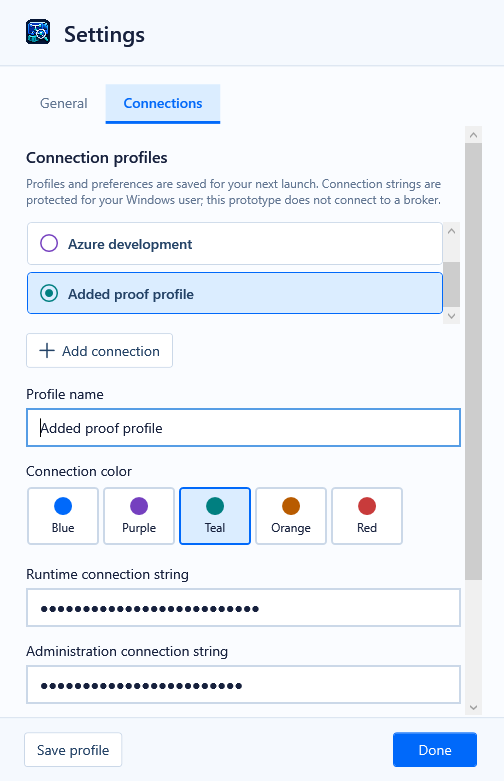
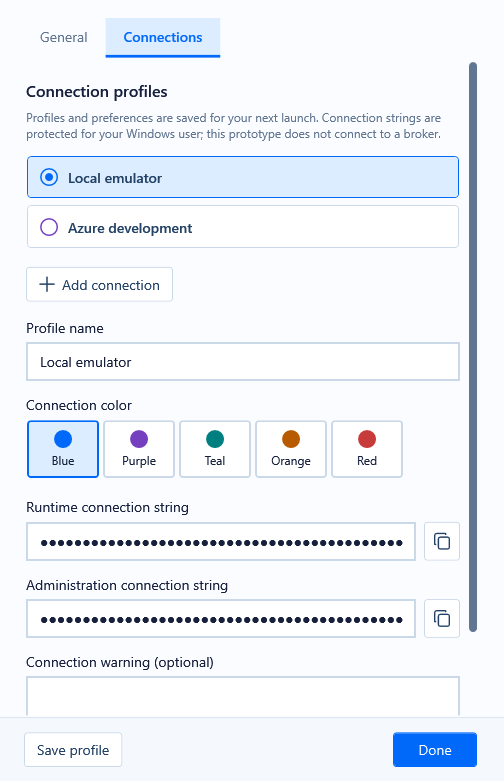
Polish prototype chrome and add connection string copy actions

Changed region(s): [[0.0298, 0.0, 0.9821, 0.8912], [0.8929, 0.8604, 0.9226, 0.9219], [0.8631, 0.6761, 0.8929, 0.7068]]

diff --git a/tools/ServiceBusEmulatorExplorer.InvestigationPrototype/PrototypeSettingsWindow.xaml b/tools/ServiceBusEmulatorExplorer.InvestigationPrototype/PrototypeSettingsWindow.xaml
@@ -25,9 +25,8 @@
         </ControlTemplate.Triggers>
        </ControlTemplate></Setter.Value></Setter>
       </Style></ResourceDictionary></Window.Resources>
- <Grid Background="{DynamicResource CanvasBrush}"><Grid.RowDefinitions><RowDefinition Height="Auto"/><RowDefinition Height="*"/><RowDefinition Height="Auto"/></Grid.RowDefinitions>
-  <Border Background="{DynamicResource ChromeBrush}" BorderBrush="{DynamicResource ControlBorderBrush}" BorderThickness="0,0,0,1" Padding="24,18"><StackPanel Orientation="Horizontal"><Image Source="Assets/AppIcon.png" Width="28" Height="28" Margin="0,0,12,0"/><TextBlock Text="Settings" FontSize="22" FontWeight="SemiBold" VerticalAlignment="Center"/></StackPanel></Border>
-  <TabControl x:Name="SettingsTabs" Grid.Row="1" Margin="20,16,20,0" Background="Transparent" BorderThickness="0">
+ <Grid Background="{DynamicResource CanvasBrush}"><Grid.RowDefinitions><RowDefinition Height="*"/><RowDefinition Height="Auto"/></Grid.RowDefinitions>
+  <TabControl x:Name="SettingsTabs" Grid.Row="0" Margin="20,16,20,0" Background="Transparent" BorderThickness="0">
    <TabControl.Resources><Style TargetType="TabItem"><Setter Property="Padding" Value="18,9"/><Setter Property="Background" Value="Transparent"/><Setter Property="Foreground" Value="{DynamicResource SecondaryBrush}"/><Setter Property="Template"><Setter.Value><ControlTemplate TargetType="TabItem"><Border x:Name="TabBorder" Background="{TemplateBinding Background}" BorderBrush="Transparent" BorderThickness="0,0,0,3" Padding="{TemplateBinding Padding}"><ContentPresenter ContentSource="Header" HorizontalAlignment="Center" VerticalAlignment="Center"/></Border><ControlTemplate.Triggers><Trigger Property="IsMouseOver" Value="True"><Setter TargetName="TabBorder" Property="Background" Value="{DynamicResource NeutralHoverBrush}"/></Trigger><Trigger Property="IsEnabled" Value="False"><Setter Property="Foreground" Value="{DynamicResource SecondaryBrush}"/></Trigger><Trigger Property="IsSelected" Value="True"><Setter Property="Foreground" Value="{DynamicResource PrimaryBrush}"/><Setter Property="FontWeight" Value="SemiBold"/><Setter TargetName="TabBorder" Property="Background" Value="{DynamicResource SelectionBrush}"/><Setter TargetName="TabBorder" Property="BorderBrush" Value="{DynamicResource PrimaryBrush}"/></Trigger><Trigger Property="IsKeyboardFocused" Value="True"><Setter TargetName="TabBorder" Property="BorderBrush" Value="{DynamicResource InkBrush}"/></Trigger></ControlTemplate.Triggers></ControlTemplate></Setter.Value></Setter></Style></TabControl.Resources>
    <TabItem x:Name="GeneralTab" Header="General" AutomationProperties.AutomationId="GeneralTab">
     <ScrollViewer Foreground="{DynamicResource InkBrush}" FontWeight="Normal" VerticalScrollBarVisibility="Auto" HorizontalScrollBarVisibility="Disabled"><StackPanel Margin="4,22,4,12">
@@ -67,9 +66,15 @@
       </Style></ListBox.ItemContainerStyle>
      </ListBox>
      <Label Content="Runtime connection string" Target="{Binding ElementName=RuntimeConnection}" Padding="0" Margin="0,14,0,6"/>
-     <PasswordBox x:Name="RuntimeConnection" AutomationProperties.AutomationId="RuntimeConnection" AutomationProperties.Name="Runtime connection string"/>
+     <Grid><Grid.ColumnDefinitions><ColumnDefinition Width="*"/><ColumnDefinition Width="Auto"/></Grid.ColumnDefinitions>
+      <PasswordBox x:Name="RuntimeConnection" PasswordChanged="ConnectionString_Changed" AutomationProperties.AutomationId="RuntimeConnection" AutomationProperties.Name="Runtime connection string"/>
+      <Button x:Name="CopyRuntimeConnectionButton" Grid.Column="1" Width="36" Margin="8,0,0,0" Padding="8" IsEnabled="False" Click="CopyRuntimeConnection_Click" ToolTip="Copy runtime connection string" AutomationProperties.AutomationId="CopyRuntimeConnectionButton" AutomationProperties.Name="Copy runtime connection string"><Path Style="{StaticResource CopyIcon}"/></Button>
+     </Grid>
      <Label Content="Administration connection string" Target="{Binding ElementName=AdministrationConnection}" Padding="0" Margin="0,14,0,6"/>
-     <PasswordBox x:Name="AdministrationConnection" AutomationProperties.AutomationId="AdministrationConnection" AutomationProperties.Name="Administration connection string"/>
+     <Grid><Grid.ColumnDefinitions><ColumnDefinition Width="*"/><ColumnDefinition Width="Auto"/></Grid.ColumnDefinitions>
+      <PasswordBox x:Name="AdministrationConnection" PasswordChanged="ConnectionString_Changed" AutomationProperties.AutomationId="AdministrationConnection" AutomationProperties.Name="Administration connection string"/>
+      <Button x:Name="CopyAdministrationConnectionButton" Grid.Column="1" Width="36" Margin="8,0,0,0" Padding="8" IsEnabled="False" Click="CopyAdministrationConnection_Click" ToolTip="Copy administration connection string" AutomationProperties.AutomationId="CopyAdministrationConnectionButton" AutomationProperties.Name="Copy administration connection string"><Path Style="{StaticResource CopyIcon}"/></Button>
+     </Grid>
      <Label Content="Connection warning (optional)" Target="{Binding ElementName=ConnectionWarning}" Padding="0" Margin="0,14,0,6"/>
      <TextBox x:Name="ConnectionWarning" MinHeight="72" MaxHeight="144" AcceptsReturn="True" TextWrapping="Wrap" VerticalScrollBarVisibility="Auto" AutomationProperties.AutomationId="ConnectionWarning" AutomationProperties.Name="Connection warning"/>
      <TextBlock Text="Shown before connecting. Leave empty to connect without a warning." TextWrapping="Wrap" Foreground="{DynamicResource SecondaryBrush}" FontSize="12" Margin="0,6,0,0"/>
@@ -77,7 +82,7 @@
     </StackPanel></ScrollViewer>
    </TabItem>
   </TabControl>
-  <Border Grid.Row="2" BorderBrush="{DynamicResource ControlBorderBrush}" BorderThickness="0,1,0,0" Padding="24,14" Background="{DynamicResource ChromeBrush}"><Grid>
+  <Border Grid.Row="1" BorderBrush="{DynamicResource ControlBorderBrush}" BorderThickness="0,1,0,0" Padding="24,14" Background="{DynamicResource ChromeBrush}"><Grid>
    <Button x:Name="SaveProfileButton" Content="Save profile" HorizontalAlignment="Left" Margin="0" Click="SaveProfile_Click" AutomationProperties.AutomationId="SaveProfileButton"><Button.Style><Style TargetType="Button" BasedOn="{StaticResource {x:Type Button}}"><Setter Property="Visibility" Value="Collapsed"/><Style.Triggers><DataTrigger Binding="{Binding IsSelected, ElementName=ConnectionsTab}" Value="True"><Setter Property="Visibility" Value="Visible"/></DataTrigger></Style.Triggers></Style></Button.Style></Button>
    <Button x:Name="DoneButton" Content="Done" Style="{StaticResource PrimaryButton}" MinWidth="84" HorizontalAlignment="Right" Click="Done_Click" AutomationProperties.AutomationId="DoneButton" IsCancel="True"/>
   </Grid></Border>

diff --git a/tools/ServiceBusEmulatorExplorer.InvestigationPrototype/PrototypeWindow.xaml b/tools/ServiceBusEmulatorExplorer.InvestigationPrototype/PrototypeWindow.xaml
@@ -23,7 +23,7 @@
    <Setter Property="FontFamily" Value="Segoe UI"/><Setter Property="FontSize" Value="14"/><Setter Property="MinWidth" Value="260"/><Setter Property="MaxWidth" Value="360"/>
    <Setter Property="Template"><Setter.Value><ControlTemplate TargetType="ContextMenu"><Border Background="{DynamicResource RaisedBrush}" BorderBrush="{DynamicResource ControlBorderBrush}" BorderThickness="1" CornerRadius="3" Padding="6"><ScrollViewer MaxHeight="400" VerticalScrollBarVisibility="Auto" HorizontalScrollBarVisibility="Disabled" CanContentScroll="True"><ItemsPresenter KeyboardNavigation.DirectionalNavigation="Cycle"/></ScrollViewer></Border></ControlTemplate></Setter.Value></Setter>
   </Style>
-  <BooleanToVisibilityConverter x:Key="BoolVisibility"/><Style x:Key="CopyIcon" TargetType="Path"><Setter Property="Data" Value="M7,6 H15 Q17,6 17,8 V17 Q17,19 15,19 H7 Q5,19 5,17 V8 Q5,6 7,6 Z M13,3 V2 H3 Q1,2 1,4 V14 H2"/><Setter Property="Stroke" Value="{Binding Foreground, RelativeSource={RelativeSource AncestorType=Button}}"/><Setter Property="StrokeThickness" Value="1.4"/><Setter Property="StrokeLineJoin" Value="Round"/><Setter Property="StrokeStartLineCap" Value="Round"/><Setter Property="StrokeEndLineCap" Value="Round"/><Setter Property="Width" Value="16"/><Setter Property="Height" Value="18"/><Setter Property="Stretch" Value="Uniform"/><Setter Property="VerticalAlignment" Value="Center"/></Style>
+  <BooleanToVisibilityConverter x:Key="BoolVisibility"/>
 
 
   <Style TargetType="TextBox"><Setter Property="Padding" Value="9,7"/><Setter Property="BorderBrush" Value="{DynamicResource ControlBorderBrush}"/><Setter Property="VerticalContentAlignment" Value="Center"/></Style>
@@ -54,7 +54,7 @@
  </ResourceDictionary></Window.Resources>
  <Grid Background="{DynamicResource CanvasBrush}">
   <Grid.RowDefinitions><RowDefinition Height="40"/><RowDefinition Height="*"/><RowDefinition Height="Auto"/><RowDefinition Height="Auto"/></Grid.RowDefinitions>
-  <Border x:Name="ProfileAccentBorder" Background="{DynamicResource ChromeBrush}" BorderBrush="{DynamicResource PrimaryBrush}" BorderThickness="0,3,0,0">
+  <Border x:Name="ProfileAccentBorder" Background="{DynamicResource ChromeBrush}" BorderBrush="{DynamicResource PrimaryBrush}" BorderThickness="0,0,0,3">
    <DockPanel Margin="15,0" LastChildFill="False">
     <StackPanel DockPanel.Dock="Left" Orientation="Horizontal" VerticalAlignment="Center">
      <ComboBox x:Name="ConnectionSelector" Width="220" Margin="0,0,8,0" Style="{StaticResource RefreshIntervalStyle}" SelectionChanged="ConnectionSelector_Changed" AutomationProperties.Name="Connection profile" AutomationProperties.AutomationId="ConnectionSelector">
@@ -66,7 +66,7 @@
     <StackPanel DockPanel.Dock="Right" Orientation="Horizontal" VerticalAlignment="Center">
      <Button x:Name="GlobalWatchButton" Click="GlobalWatch_Click" Padding="8,4" ToolTip="Watch messages across this connection" AutomationProperties.Name="Watch all entities" AutomationProperties.AutomationId="GlobalWatchButton"><StackPanel Orientation="Horizontal"><Path Data="M8,1 C4,1 3,4 3,7 V11 L1,14 H15 L13,11 V7 C13,4 12,1 8,1 Z M5,16 H11" Width="16" Height="16" Stretch="Uniform" Stroke="{Binding Foreground, RelativeSource={RelativeSource AncestorType=Button}}" StrokeThickness="1.5" StrokeLineJoin="Round" Margin="0,0,7,0"/><TextBlock Text="Watch all" VerticalAlignment="Center"/></StackPanel></Button>
      <Button x:Name="WatchSummaryButton" Visibility="Collapsed" Click="WatchSummary_Click" Padding="8,3" Style="{StaticResource IconButton}" ToolTip="Watch notifications" AutomationProperties.Name="Watch notifications"><StackPanel Orientation="Horizontal"><Path Data="M10,2 C6,2 4,5 4,9 V14 L2,17 H18 L16,14 V9 C16,5 14,2 10,2 Z M7,19 A3,3 0 0 0 13,19 Z" Fill="{DynamicResource PrimaryBrush}" Width="18" Height="20" Stretch="Uniform"/><TextBlock x:Name="WatchCount" Text="0" Foreground="{DynamicResource PrimaryBrush}" FontWeight="SemiBold" FontSize="11" Margin="5,0,0,0" VerticalAlignment="Center"/></StackPanel></Button>
-     <Button x:Name="SettingsButton" Click="Settings_Click" Style="{StaticResource IconButton}" Padding="6,2" ToolTip="Settings" AutomationProperties.Name="Settings"><Path Data="M6,0 H10 L11,3 14,4 16,7 14,10 14,13 11,15 8,14 5,15 2,13 2,10 0,7 2,4 5,3 Z M11,7 A3,3 0 1 1 5,7 A3,3 0 1 1 11,7" Stroke="{Binding Foreground, RelativeSource={RelativeSource AncestorType=Button}}" StrokeThickness="1.5" StrokeLineJoin="Round" Width="16" Height="16" Stretch="Uniform"/></Button>
+     <Button x:Name="SettingsButton" Click="Settings_Click" Style="{StaticResource IconButton}" Padding="6,2" ToolTip="Settings" AutomationProperties.Name="Settings"><Path Data="M6,0 H10 L10.5,2.5 12,3.4 14.4,2.6 16.4,6 14.5,7.7 V9.3 L16.4,11 14.4,14.4 12,13.6 10.5,14.5 10,17 H6 L5.5,14.5 4,13.6 1.6,14.4 -0.4,11 1.5,9.3 V7.7 L-0.4,6 1.6,2.6 4,3.4 5.5,2.5 Z M11,8.5 A3,3 0 1 1 5,8.5 A3,3 0 1 1 11,8.5" Stroke="{Binding Foreground, RelativeSource={RelativeSource AncestorType=Button}}" StrokeThickness="1.5" StrokeLineJoin="Round" Width="16" Height="16" Stretch="Uniform"/></Button>
     </StackPanel>
    </DockPanel>
   </Border>

diff --git a/tools/ServiceBusEmulatorExplorer.InvestigationPrototype/SharedStyles.xaml b/tools/ServiceBusEmulatorExplorer.InvestigationPrototype/SharedStyles.xaml
@@ -87,4 +87,34 @@
     <DataTrigger Binding="{Binding Kind}" Value="Subscription"><Setter Property="Stroke" Value="#7351B5"/><Setter Property="Data" Value="M10,0 V12 M6,8 L10,12 14,8 M3,10 L0,19 H20 L17,10 M0,15 H6 L8,18 H12 L14,15 H20"/></DataTrigger>
    </Style.Triggers>
   </Style>
+ <Style x:Key="CopyIcon" TargetType="Path"><Setter Property="Data" Value="M7,6 H15 Q17,6 17,8 V17 Q17,19 15,19 H7 Q5,19 5,17 V8 Q5,6 7,6 Z M13,3 V2 H3 Q1,2 1,4 V14 H2"/><Setter Property="Stroke" Value="{Binding Foreground, RelativeSource={RelativeSource AncestorType=Button}}"/><Setter Property="StrokeThickness" Value="1.4"/><Setter Property="StrokeLineJoin" Value="Round"/><Setter Property="StrokeStartLineCap" Value="Round"/><Setter Property="StrokeEndLineCap" Value="Round"/><Setter Property="Width" Value="16"/><Setter Property="Height" Value="18"/><Setter Property="Stretch" Value="Uniform"/><Setter Property="VerticalAlignment" Value="Center"/></Style>
+ <Style x:Key="ScrollPageButton" TargetType="RepeatButton">
+  <Setter Property="Focusable" Value="False"/><Setter Property="IsTabStop" Value="False"/>
+  <Setter Property="Template"><Setter.Value><ControlTemplate TargetType="RepeatButton"><Border Background="Transparent"/></ControlTemplate></Setter.Value></Setter>
+ </Style>
+ <Style x:Key="ScrollThumb" TargetType="Thumb">
+  <Setter Property="MinHeight" Value="28"/><Setter Property="Focusable" Value="False"/>
+  <Setter Property="Template"><Setter.Value><ControlTemplate TargetType="Thumb"><Grid Background="Transparent">
+   <Border x:Name="ThumbSurface" Background="{DynamicResource SecondaryBrush}" CornerRadius="4" Margin="5,2"/>
+   </Grid><ControlTemplate.Triggers>
+    <Trigger Property="IsMouseOver" Value="True"><Setter TargetName="ThumbSurface" Property="Background" Value="{DynamicResource PrimaryBrush}"/></Trigger>
+    <Trigger Property="IsDragging" Value="True"><Setter TargetName="ThumbSurface" Property="Background" Value="{DynamicResource PrimaryBrush}"/><Setter TargetName="ThumbSurface" Property="Margin" Value="3,2"/></Trigger>
+    <DataTrigger Binding="{Binding Orientation, RelativeSource={RelativeSource AncestorType=ScrollBar}}" Value="Horizontal"><Setter TargetName="ThumbSurface" Property="Margin" Value="2,5"/></DataTrigger>
+    <MultiDataTrigger><MultiDataTrigger.Conditions><Condition Binding="{Binding Orientation, RelativeSource={RelativeSource AncestorType=ScrollBar}}" Value="Horizontal"/><Condition Binding="{Binding IsDragging, RelativeSource={RelativeSource Self}}" Value="True"/></MultiDataTrigger.Conditions><Setter TargetName="ThumbSurface" Property="Margin" Value="2,3"/></MultiDataTrigger>
+    <Trigger Property="IsEnabled" Value="False"><Setter TargetName="ThumbSurface" Property="Background" Value="{DynamicResource DisabledTextBrush}"/></Trigger>
+   </ControlTemplate.Triggers></ControlTemplate></Setter.Value></Setter>
+  <Style.Triggers><DataTrigger Binding="{Binding Orientation, RelativeSource={RelativeSource AncestorType=ScrollBar}}" Value="Horizontal"><Setter Property="MinWidth" Value="28"/><Setter Property="MinHeight" Value="0"/></DataTrigger></Style.Triggers>
+ </Style>
+ <Style TargetType="ScrollBar">
+  <Setter Property="Width" Value="18"/><Setter Property="Background" Value="Transparent"/>
+  <Setter Property="Focusable" Value="False"/><Setter Property="IsTabStop" Value="False"/>
+  <Setter Property="Template"><Setter.Value><ControlTemplate TargetType="ScrollBar"><Grid Background="{TemplateBinding Background}" SnapsToDevicePixels="True">
+   <Track x:Name="PART_Track" Orientation="{TemplateBinding Orientation}" Minimum="{TemplateBinding Minimum}" Maximum="{TemplateBinding Maximum}" ViewportSize="{TemplateBinding ViewportSize}" Value="{Binding Value, RelativeSource={RelativeSource TemplatedParent}, Mode=TwoWay}" IsDirectionReversed="True">
+    <Track.DecreaseRepeatButton><RepeatButton x:Name="DecreasePage" Style="{StaticResource ScrollPageButton}" Command="{x:Static ScrollBar.PageUpCommand}"/></Track.DecreaseRepeatButton>
+    <Track.Thumb><Thumb Style="{StaticResource ScrollThumb}"/></Track.Thumb>
+    <Track.IncreaseRepeatButton><RepeatButton x:Name="IncreasePage" Style="{StaticResource ScrollPageButton}" Command="{x:Static ScrollBar.PageDownCommand}"/></Track.IncreaseRepeatButton>
+   </Track>
+   </Grid><ControlTemplate.Triggers><Trigger Property="Orientation" Value="Horizontal"><Setter TargetName="PART_Track" Property="IsDirectionReversed" Value="False"/><Setter TargetName="DecreasePage" Property="Command" Value="{x:Static ScrollBar.PageLeftCommand}"/><Setter TargetName="IncreasePage" Property="Command" Value="{x:Static ScrollBar.PageRightCommand}"/></Trigger></ControlTemplate.Triggers></ControlTemplate></Setter.Value></Setter>
+  <Style.Triggers><Trigger Property="Orientation" Value="Horizontal"><Setter Property="Width" Value="Auto"/><Setter Property="Height" Value="18"/></Trigger></Style.Triggers>
+ </Style>
 </ResourceDictionary>

diff --git a/tools/ServiceBusEmulatorExplorer.InvestigationPrototype/ChromePolishProof.cs b/tools/ServiceBusEmulatorExplorer.InvestigationPrototype/ChromePolishProof.cs
@@ -1,0 +1,172 @@
+using System.Windows;
+using System.Windows.Automation;
+using System.Windows.Automation.Peers;
+using System.Windows.Automation.Provider;
+using System.Windows.Controls;
+using System.Windows.Controls.Primitives;
+using System.Windows.Documents;
+using System.Windows.Threading;
+
+namespace ServiceBusEmulatorExplorer.InvestigationPrototype;
+
+internal static class ChromePolishProof
+{
+    public static async Task Exercise(PrototypeWindow window, List<string> report, string output)
+    {
+        var accent = (Border)window.FindName("ProfileAccentBorder");
+        Check(accent.BorderThickness.Left == 0 && accent.BorderThickness.Top == 0 && accent.BorderThickness.Right == 0 && accent.BorderThickness.Bottom > 0,
+            "Profile accent is confined to the header bottom edge", report);
+        ProofCapture.Save(window, output, "header-bottom-accent");
+        ProofCapture.Descendants(window).OfType<Button>().Single(button => AutomationProperties.GetName(button) == "Settings")
+            .RaiseEvent(new RoutedEventArgs(ButtonBase.ClickEvent));
+        await Settle();
+        var settings = Application.Current.Windows.OfType<PrototypeSettingsWindow>().Single();
+        try
+        {
+            Check(!ProofCapture.Descendants(settings).OfType<TextBlock>().Any(text => text.Text == "Settings"),
+                "Settings content does not repeat the native window title", report);
+            ((TabItem)settings.FindName("ConnectionsTab")).IsSelected = true;
+            await Settle();
+            var runtime = (PasswordBox)settings.FindName("RuntimeConnection");
+            var admin = (PasswordBox)settings.FindName("AdministrationConnection");
+            var runtimeCopy = (Button)settings.FindName("CopyRuntimeConnectionButton");
+            var adminCopy = (Button)settings.FindName("CopyAdministrationConnectionButton");
+            var originalRuntime = runtime.Password; var originalAdmin = admin.Password;
+            var clipboard = Clipboard.GetDataObject();
+            try
+            {
+                runtime.Password = ""; admin.Password = "";
+                await Settle();
+                Check(!runtimeCopy.IsEnabled && !adminCopy.IsEnabled, "Blank connection fields disable their copy actions", report);
+                runtime.Password = "unsaved-runtime-proof"; admin.Password = "unsaved-admin-proof";
+                await Settle();
+                await Copy(runtimeCopy, "unsaved-runtime-proof");
+                await Copy(adminCopy, "unsaved-admin-proof");
+                Check(true, "Copy actions use the exact unsaved runtime and administration field values", report);
+            }
+            finally
+            {
+                runtime.Password = originalRuntime; admin.Password = originalAdmin;
+                await RestoreClipboard(clipboard);
+            }
+            ProofCapture.Save(settings, output, "settings-chrome");
+            settings.Width = 460; settings.Height = 520;
+            await Settle();
+            await ScrollVertical(settings, report, "Compact Settings");
+            ProofCapture.CheckBounds(settings, [ProofCapture.Control<Button>(settings, "DoneButton"), ProofCapture.Control<Button>(settings, "SaveProfileButton")]);
+            ProofCapture.Save(settings, output, "settings-chrome-compact");
+            adminCopy.BringIntoView();
+            await Settle();
+            ProofCapture.CheckBounds(settings, [runtimeCopy, adminCopy]);
+            ProofCapture.Save(settings, output, "settings-chrome-compact-copy-actions");
+        }
+        finally { settings.Close(); }
+        await ScrollVertical(window, report, "Main investigation workspace");
+        var roots = PrototypeData.CreateTree();
+        var group = roots.First();
+        for (var index = 0; index < 45; index++) group.Children.Add(new EntityNode { Name = "regional-processing-queue-" + index, Path = "regional-processing-queue-" + index, Kind = "Queue" });
+        var watch = new GlobalWatchWindow(roots, new WatchRules(), () => { }) { Owner = window, Width = 460, Height = 520 };
+        try
+        {
+            watch.Show();
+            await Settle();
+            await ScrollVertical(watch, report, "Watch tree with many entities");
+            ProofCapture.Save(watch, output, "watch-scroll-chrome");
+        }
+        finally { watch.Close(); }
+        await ScrollbarHarness(window, report, output);
+    }
+
+    private static async Task Copy(Button button, string expected)
+    {
+        for (var attempt = 0; attempt < 3; attempt++)
+        {
+            button.RaiseEvent(new RoutedEventArgs(ButtonBase.ClickEvent));
+            await Settle();
+            try { if (Clipboard.GetText() == expected) return; }
+            catch (System.Runtime.InteropServices.COMException) { }
+            await Task.Delay(60);
+        }
+        throw new InvalidOperationException("Copy did not place the exact unsaved connection field on the clipboard.");
+    }
+
+    private static async Task RestoreClipboard(IDataObject? original)
+    {
+        for (var attempt = 0; ; attempt++)
+        {
+            try { if (original is null) Clipboard.Clear(); else Clipboard.SetDataObject(original, true); return; }
+            catch (System.Runtime.InteropServices.COMException) when (attempt < 2) { await Task.Delay(60); }
+        }
+    }
+
+    private static async Task ScrollVertical(Window window, List<string> report, string label)
+    {
+        var scroller = ProofCapture.Descendants(window).OfType<ScrollViewer>().Where(scroll => scroll.IsVisible && scroll.ScrollableHeight > 0)
+            .OrderByDescending(scroll => scroll.ActualHeight).FirstOrDefault()
+            ?? throw new InvalidOperationException(label + " has no rendered scrollable content.");
+        var original = scroller.VerticalOffset;
+        scroller.ScrollToEnd();
+        await Settle();
+        Check(scroller.VerticalOffset > 0 && ProofCapture.Descendants(scroller).OfType<ScrollBar>().Any(bar => bar.IsVisible && bar.Orientation == Orientation.Vertical && bar.Template is not null),
+            label + " scrolls long content with a rendered vertical scrollbar", report);
+        scroller.ScrollToVerticalOffset(original);
+        await Settle();
+    }
+
+    private static async Task ScrollbarHarness(Window owner, List<string> report, string output)
+    {
+        var scroller = new ScrollViewer { HorizontalScrollBarVisibility = ScrollBarVisibility.Auto, VerticalScrollBarVisibility = ScrollBarVisibility.Auto,
+            Content = new TextBlock { Text = string.Join("\n", Enumerable.Range(0, 60).Select(index => "2026-09-12T10:23:45Z INFO regional-processing queue event " + index + " " + new string('x', 140))) } };
+        var harness = new Window { Owner = owner, Width = 500, Height = 280, Content = scroller, Title = "Scrollbar style proof" };
+        harness.Resources.MergedDictionaries.Add(new ResourceDictionary { Source = new Uri("SharedStyles.xaml", UriKind.Relative) });
+        scroller.SetResourceReference(Control.BackgroundProperty, "CanvasBrush");
+        scroller.SetResourceReference(Control.ForegroundProperty, "InkBrush");
+        try
+        {
+            harness.Show();
+            await Settle();
+            scroller.ScrollToHorizontalOffset(100); scroller.ScrollToVerticalOffset(100);
+            await Settle();
+            Check(scroller.HorizontalOffset > 0 && scroller.VerticalOffset > 0 && ProofCapture.Descendants(scroller).OfType<ScrollBar>()
+                .Count(bar => bar.IsVisible) == 2, "Shared scrollbar style harness supports both horizontal and vertical scrolling", report);
+            await ExerciseScrollbar(scroller, Orientation.Horizontal, report);
+            await ExerciseScrollbar(scroller, Orientation.Vertical, report);
+            ProofCapture.Save(harness, output, "shared-scrollbars-both-orientations");
+        }
+        finally { harness.Close(); }
+    }
+
+    private static async Task ExerciseScrollbar(ScrollViewer scroller, Orientation orientation, List<string> report)
+    {
+        if (orientation == Orientation.Horizontal) scroller.ScrollToHorizontalOffset(0);
+        else scroller.ScrollToVerticalOffset(0);
+        await Settle();
+        var bar = ProofCapture.Descendants(scroller).OfType<ScrollBar>().Single(control => control.IsVisible && control.Orientation == orientation);
+        var track = (Track)bar.Template.FindName("PART_Track", bar);
+        var surface = track.Thumb.Template.FindName("ThumbSurface", track.Thumb) as Border;
+        Check(surface is { IsVisible: true } && surface.ActualWidth > 0 && surface.ActualHeight > 0,
+            orientation + " scrollbar renders the shared ThumbSurface", report);
+        var before = orientation == Orientation.Horizontal ? scroller.HorizontalOffset : scroller.VerticalOffset;
+        var peer = UIElementAutomationPeer.CreatePeerForElement(track.IncreaseRepeatButton);
+        if (peer?.GetPattern(PatternInterface.Invoke) is not IInvokeProvider invoke)
+            throw new InvalidOperationException(orientation + " scrollbar page button has no Invoke provider.");
+        invoke.Invoke();
+        await Settle();
+        var paged = orientation == Orientation.Horizontal ? scroller.HorizontalOffset : scroller.VerticalOffset;
+        Check(paged > before, orientation + " scrollbar page button advances its ScrollViewer", report);
+        var horizontal = orientation == Orientation.Horizontal ? 20d : 0d;
+        var vertical = orientation == Orientation.Vertical ? 20d : 0d;
+        track.Thumb.RaiseEvent(new DragStartedEventArgs(0, 0) { RoutedEvent = Thumb.DragStartedEvent });
+        track.Thumb.RaiseEvent(new DragDeltaEventArgs(horizontal, vertical) { RoutedEvent = Thumb.DragDeltaEvent });
+        track.Thumb.RaiseEvent(new DragCompletedEventArgs(horizontal, vertical, false) { RoutedEvent = Thumb.DragCompletedEvent });
+        await Settle();
+        var dragged = orientation == Orientation.Horizontal ? scroller.HorizontalOffset : scroller.VerticalOffset;
+        Check(dragged > paged, orientation + " scrollbar Thumb drag advances its ScrollViewer", report);
+    }
+    private static Task Settle() => Application.Current.Dispatcher.InvokeAsync(() => { }, DispatcherPriority.ApplicationIdle).Task;
+    private static void Check(bool condition, string message, List<string> report)
+    {
+        if (!condition) throw new InvalidOperationException(message);
+        report.Add("- PASS: " + message);
+    }
+}

diff --git a/tools/ServiceBusEmulatorExplorer.InvestigationPrototype/PrototypeSettingsWindow.xaml.cs b/tools/ServiceBusEmulatorExplorer.InvestigationPrototype/PrototypeSettingsWindow.xaml.cs
@@ -139,6 +139,35 @@ public partial class PrototypeSettingsWindow : Window
         ProfileStatus.Text = string.Empty;
     }
 
+    private void ConnectionString_Changed(object sender, RoutedEventArgs e)
+    {
+        if (CopyRuntimeConnectionButton is not null) CopyRuntimeConnectionButton.IsEnabled = HasConnectionString(RuntimeConnection);
+        if (CopyAdministrationConnectionButton is not null) CopyAdministrationConnectionButton.IsEnabled = HasConnectionString(AdministrationConnection);
+    }
+
+    private static bool HasConnectionString(PasswordBox field)
+    {
+        using var password = field.SecurePassword;
+        return password.Length > 0;
+    }
+
+    private void CopyRuntimeConnection_Click(object sender, RoutedEventArgs e) => CopyConnectionString(RuntimeConnection, "Runtime");
+    private void CopyAdministrationConnection_Click(object sender, RoutedEventArgs e) => CopyConnectionString(AdministrationConnection, "Administration");
+
+    private void CopyConnectionString(PasswordBox field, string label)
+    {
+        if (!HasConnectionString(field)) return;
+        try
+        {
+            Clipboard.SetText(field.Password);
+            ProfileStatus.Text = $"{label} connection string copied.";
+        }
+        catch (System.Runtime.InteropServices.ExternalException)
+        {
+            ProfileStatus.Text = "Clipboard is unavailable. Try copying again.";
+        }
+    }
+
     private void SaveProfile_Click(object sender, RoutedEventArgs e)
     {
         if (ProfilesList.SelectedItem is not PrototypeConnectionProfile profile) return;

diff --git a/tools/ServiceBusEmulatorExplorer.InvestigationPrototype/InvestigationProof.cs b/tools/ServiceBusEmulatorExplorer.InvestigationPrototype/InvestigationProof.cs
@@ -41,6 +41,7 @@ internal static class InvestigationProof
             await ProfileThemeProof.Exercise(window, report, output);
             await AddConnectionProof.Exercise(window, report, output);
             await AutoConnectProof.Exercise(window, report, output);
+            await ChromePolishProof.Exercise(window, report, output);
             File.WriteAllLines(Path.Combine(output, "report.md"), report);
             return 0;
         }

diff --git a/specs/investigation-workspace-handoff.md b/specs/investigation-workspace-handoff.md
@@ -7,7 +7,7 @@ Prepared 2026-09-11; prototype approved by the user on 2026-09-12. **Prototype c
 - Implementation baseline: `126c824` on `prototype/investigation-workspace` (approved prototype). Earlier milestones: `a908ffd` for persisted Watch/preferences and typed deletion; `8cc1232` for profile themes, warnings and new profiles. Use the normal checkout and inspect newer commits before starting; preserve unrelated changes.
 - Visual/interaction reference: [prototype](../tools/ServiceBusEmulatorExplorer.InvestigationPrototype/README.md) and its [current preview](../tools/ServiceBusEmulatorExplorer.InvestigationPrototype/preview.png). Apply [UI language and audit corrections](ui-language.md) consistently; preserve the approved layout.
 - Destination: existing WPF [App](../src/ServiceBusEmulatorExplorer.App/ServiceBusEmulatorExplorer.App.csproj) using existing [Core contracts](../src/ServiceBusEmulatorExplorer.Core/ServiceBus/ServiceBusContracts.cs). Keep the prototype as a reference until parity is proven. Do not just rename its executable or ship its synthetic Workspace.
-- Current evidence: 333 routed walkthrough checks and an 11-check real tray run pass, including profile/Watch preferences, typed deletion and shared styling. Full-profile themes, saved warnings, new profiles and simplified Watch search pass the current rendered walkthrough. No new broker integration tests were run for this audit. The proof uses synthetic messages and is not a production readiness certificate.
+- Current evidence: 347 routed walkthrough checks and an 11-check real tray run pass, including profile/Watch preferences, typed deletion and shared styling. Full-profile themes, saved warnings, new profiles and simplified Watch search pass the current rendered walkthrough. No new broker integration tests were run for this audit. The proof uses synthetic messages and is not a production readiness certificate.
 
 ## Approved prototype milestone
 
@@ -29,6 +29,7 @@ Do not reopen visual design, add redundant controls, or run another prototype-de
 | --- | --- | --- |
 | Small daily-investigation UI; remove redundant headings | Approved layout implemented | Replace old shell surface; do not bring back all old administration buttons |
 | Emulator and Azure connection selection | Toolbar dropdown with opt-in auto-connect; Settings manages profiles; Add connection opens a blank uniquely named profile without switching; Save persists | Reuse real profile/auth validation; persist selected profile and color separately from connection health |
+| Share connection strings | Copy beside each masked runtime/administration field copies its current value; empty fields disable Copy; status never includes credentials | Preserve explicit clipboard sharing and masking; never log credentials |
 | Profile identity and connection health | Active profile theme covers buttons, selected states and surface tints across windows; separate fixed health, DLQ and red Delete colors | Bind health to structured connection/operation outcomes; color alone must not communicate status |
 | Queues, topics, subscriptions and Message/DLQ totals | Sample tree, distinct icons; unknown sample counts | Bind real tree and typed known/unknown/stale count state; topic totals are delivery totals across subscriptions |
 | First 50 on scope/bucket change; Load more | Implemented against fixtures | Per-source cursors, cancellation, stale-request rejection; settle topic aggregate paging |
@@ -53,7 +54,7 @@ Do not reopen visual design, add redundant controls, or run another prototype-de
 | Full-width activity console; clear only expanded | Implemented with 100 in-memory entries | Structured outcomes, redacted sensitive values, bounded history; decide persistence |
 | UTC/Local/Server selector | Display preference persisted; Server is sample −05:00 | Configure real server zone; retain original UTC instants and raw payloads |
 | Restore selections/preferences across launches | Separate prototype JSON store; user-scoped DPAPI for connection strings; per-profile Watch snapshots | Integrate production settings safely; migration, failure recovery and restart behavior must be proven |
-| Consistent colors/fonts/sizes/states | Shared resources and Settings normalization implemented; rendered desktop/compact/minimum checks pass | Preserve approved tokens and complete the linked UI audit before production handoff |
+| Consistent colors/fonts/sizes/states | Shared resources, themed scrollbars, conventional cog, continuous accent divider below the toolbar and Settings without a duplicate content title implemented; rendered desktop/compact/minimum checks pass | Preserve approved tokens and complete the linked UI audit before production handoff |
 
 Keep entity creation/edit/delete, purge, advanced rule administration, scheduling and unrelated legacy features outside the primary workflow. Retaining existing backend code is different from exposing its entire old UI. Standalone Send New Message and replay of Active messages were not settled; do not silently add them.
 

diff --git a/specs/ui-language.md b/specs/ui-language.md
@@ -27,7 +27,7 @@ Sizes below are WPF device-independent units (DIPs), not physical pixels. Use na
 | Role | Value / rule |
 | --- | --- |
 | Font family | Segoe UI; Consolas for JSON and console |
-| Type scale | 14 DIPs controls/body; 12 DIPs metadata; 11 DIPs badges/timestamps only; 16 DIPs section title; 24 DIPs inspector title; 18 DIPs compact title; 22 DIPs Settings title; 16 DIPs notification summary |
+| Type scale | 14 DIPs controls/body; 12 DIPs metadata; 11 DIPs badges/timestamps only; 16 DIPs section title; 24 DIPs inspector title; 18 DIPs compact title; native Settings window title only; 16 DIPs notification summary |
 | Code/console | JSON 14 DIPs; console 12 DIPs; always wrap body text; preserve raw content |
 | Primary text / secondary / action text | `#17213D` / `#627692` / `#234266` |
 | Canvas / raised / toolbar | `#FAFCFF` / `#FFFFFF` / `#F5F9FE` |
@@ -63,4 +63,12 @@ Do not confuse glyph dimensions with hit targets. Keep Copy beside the correlati
 - Add connection opens a uniquely named empty editor without changing the active connection; Save persists its color and optional warning. Saved warnings gate switching, Connect and restored startup attempts. Cancel preserves the previous connection or leaves the pending attempt disconnected.
 - Watch search uses an inline magnifier and concise placeholder; keep its accessible name without a verbose duplicate instruction.
 
-Current gate: **visual consistency and routed flows PASS** at the three supported window sizes, with 333 walkthrough checks and 11 real tray checks. Typed confirmation, inclusion-tree Watch, profile colors/health and protected preference save/reopen are covered by the [walkthrough](../tools/ServiceBusEmulatorExplorer.InvestigationPrototype/verification.md). Full-profile themes, saved warning flows, Add connection and simplified Watch search pass the current rerun, including saving while a warning is pending and restored DLQ browsing. **Broader physical keyboard, screen-reader and Windows DPI/multi-monitor evidence remains BLOCKED (not collected).** Synthetic interactions do not establish broker correctness or a complete accessibility audit.
+Current gate: **visual consistency and routed flows PASS** at the three supported window sizes, with 347 walkthrough checks and 11 real tray checks. Typed confirmation, inclusion-tree Watch, profile colors/health and protected preference save/reopen are covered by the [walkthrough](../tools/ServiceBusEmulatorExplorer.InvestigationPrototype/verification.md). Full-profile themes, saved warning flows, Add connection and simplified Watch search pass the current rerun, including saving while a warning is pending and restored DLQ browsing. **Broader physical keyboard, screen-reader and Windows DPI/multi-monitor evidence remains BLOCKED (not collected).** Synthetic interactions do not establish broker correctness or a complete accessibility audit.
+
+## Final chrome polish (2026-09-12)
+
+The profile accent forms a continuous 3-DIP divider below the connection toolbar, meeting the pane splitters. Settings uses a conventional toothed cog and the native window title without a duplicate content heading. Each masked connection field has the shared rounded Copy icon, an accessible name and a tooltip; copying uses the current field value without logging it. Empty fields disable Copy.
+
+All shared scrollbars use an 18-DIP hit lane, a rounded 8-DIP visible thumb and profile-themed hover/drag feedback. Preserve wheel, keyboard, page and thumb behavior in both orientations. Dark editor/log backgrounds remain dark beneath the transparent track.
+
+Chrome-polish verification: zero-warning build and 347 routed checks pass. Actual desktop/compact/minimum screenshots, masked-field copying, Watch scrolling, and page/drag commands in both orientations were checked. Current rendered evidence is reflected in the linked previews and walkthrough; prior physical-input/DPI limitations remain. One initial run encountered external clipboard contention while restoring clipboard contents; the complete final rerun passed.

diff --git a/tools/ServiceBusEmulatorExplorer.InvestigationPrototype/README.md b/tools/ServiceBusEmulatorExplorer.InvestigationPrototype/README.md
@@ -66,7 +66,7 @@ See the [requirements, open questions and worker handoff](../../specs/investigat
 
 ## Rendered evidence
 
-Current verification: build with zero warnings/errors and **333 passing checks**, including typed deletion, Watch inclusion, profile health/colors and protected preference save/reopen. The [real tray lifetime proof](tray-verification.md) passes **11 checks**. Full-profile themes, saved warnings, new profiles and simplified Watch search pass the current rendered walkthrough. Verification uses isolated preference files; broker operations remain synthetic.
+Current verification: build with zero warnings/errors and **347 passing checks**, including typed deletion, Watch inclusion, profile health/colors and protected preference save/reopen. The [real tray lifetime proof](tray-verification.md) passes **11 checks**. Full-profile themes, saved warnings, new profiles and simplified Watch search pass the current rendered walkthrough. Verification uses isolated preference files; broker operations remain synthetic.
 
 | UI gate | Result | Evidence |
 | --- | --- | --- |
@@ -111,3 +111,5 @@ dotnet run --project tools/ServiceBusEmulatorExplorer.InvestigationPrototype -- 
 ```
 
 Limits: proof uses routed WPF actions and editor documents, not every physical pointer gesture. No broker integration, exhaustive DPI matrix, or full screen-reader audit is claimed. The mockup supplies visual authority; platform font rasterization and live sample content differ from the generated image. The earlier modal replay editor and its walkthrough have been replaced by inline editing.
+
+Connection strings remain masked in Settings. Use the adjacent Copy button to share the current runtime or administration string; blank fields cannot be copied. The toolbar accent now sits below the controls, and scrollbars share the profile theme throughout the prototype.

diff --git a/tools/ServiceBusEmulatorExplorer.InvestigationPrototype/verification.md b/tools/ServiceBusEmulatorExplorer.InvestigationPrototype/verification.md
@@ -351,3 +351,17 @@ PASS: Space on a row checkbox toggles that checkbox once.
 - PASS: Saving the current profile does not trigger auto-connect
 - PASS: Auto-connect preference persists to an isolated preferences file
 - PASS: A fresh Settings window restores the saved auto-connect switch
+- PASS: Profile accent is confined to the header bottom edge
+- PASS: Settings content does not repeat the native window title
+- PASS: Blank connection fields disable their copy actions
+- PASS: Copy actions use the exact unsaved runtime and administration field values
+- PASS: Compact Settings scrolls long content with a rendered vertical scrollbar
+- PASS: Main investigation workspace scrolls long content with a rendered vertical scrollbar
+- PASS: Watch tree with many entities scrolls long content with a rendered vertical scrollbar
+- PASS: Shared scrollbar style harness supports both horizontal and vertical scrolling
+- PASS: Horizontal scrollbar renders the shared ThumbSurface
+- PASS: Horizontal scrollbar page button advances its ScrollViewer
+- PASS: Horizontal scrollbar Thumb drag advances its ScrollViewer
+- PASS: Vertical scrollbar renders the shared ThumbSurface
+- PASS: Vertical scrollbar page button advances its ScrollViewer
+- PASS: Vertical scrollbar Thumb drag advances its ScrollViewer
